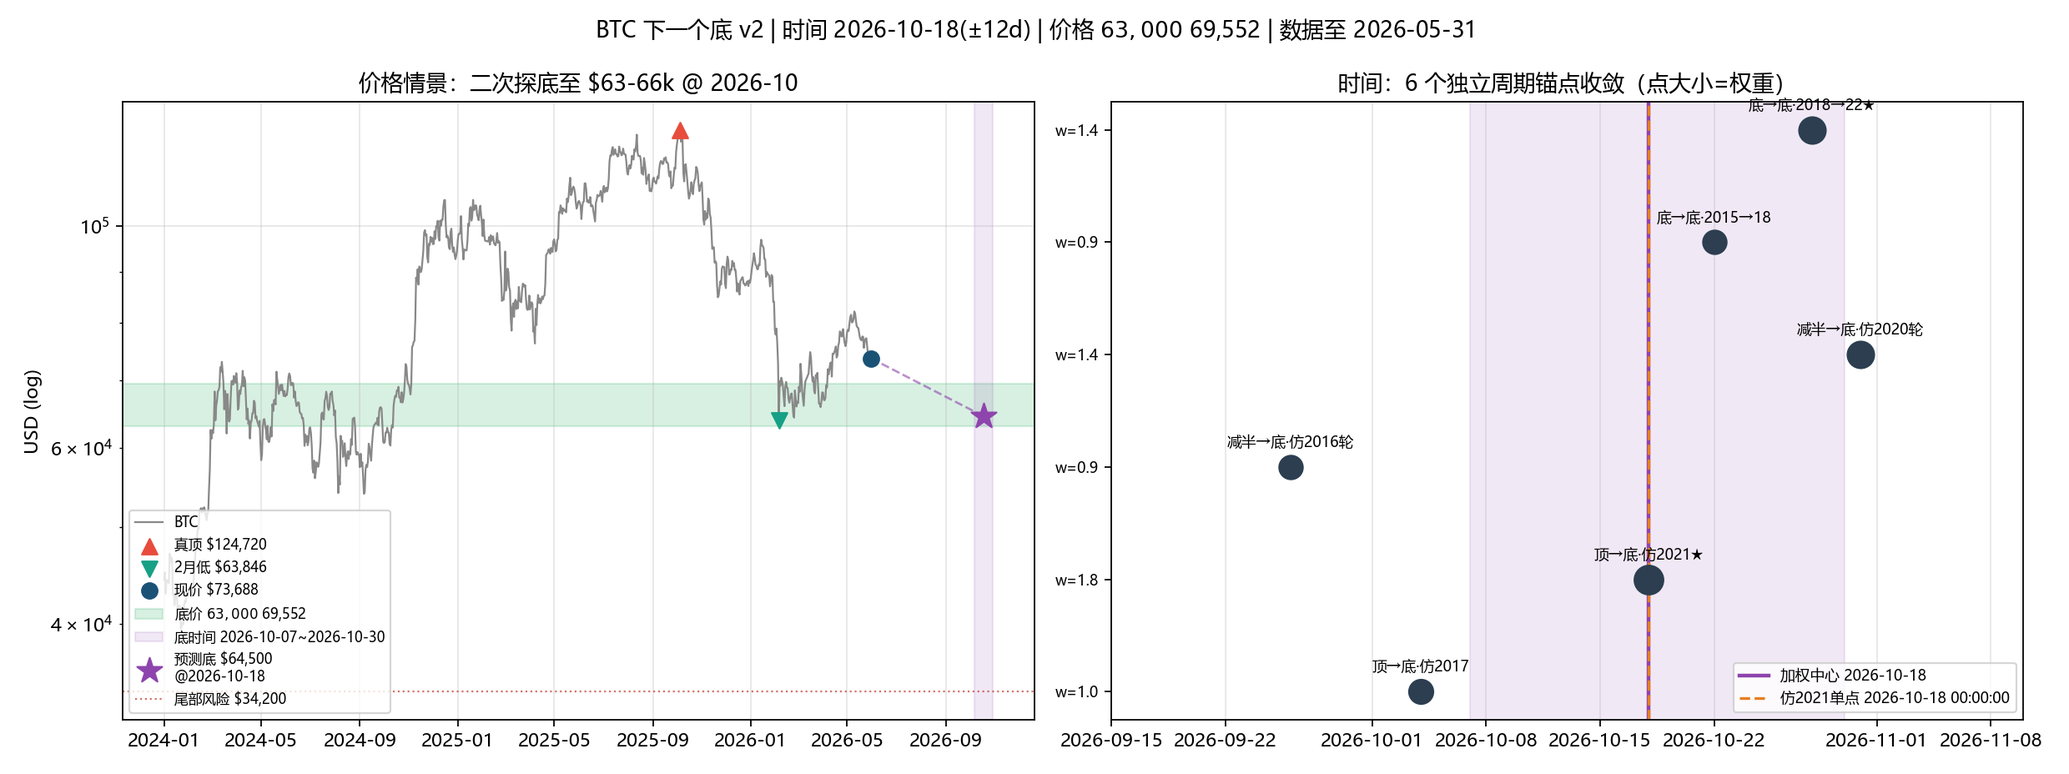
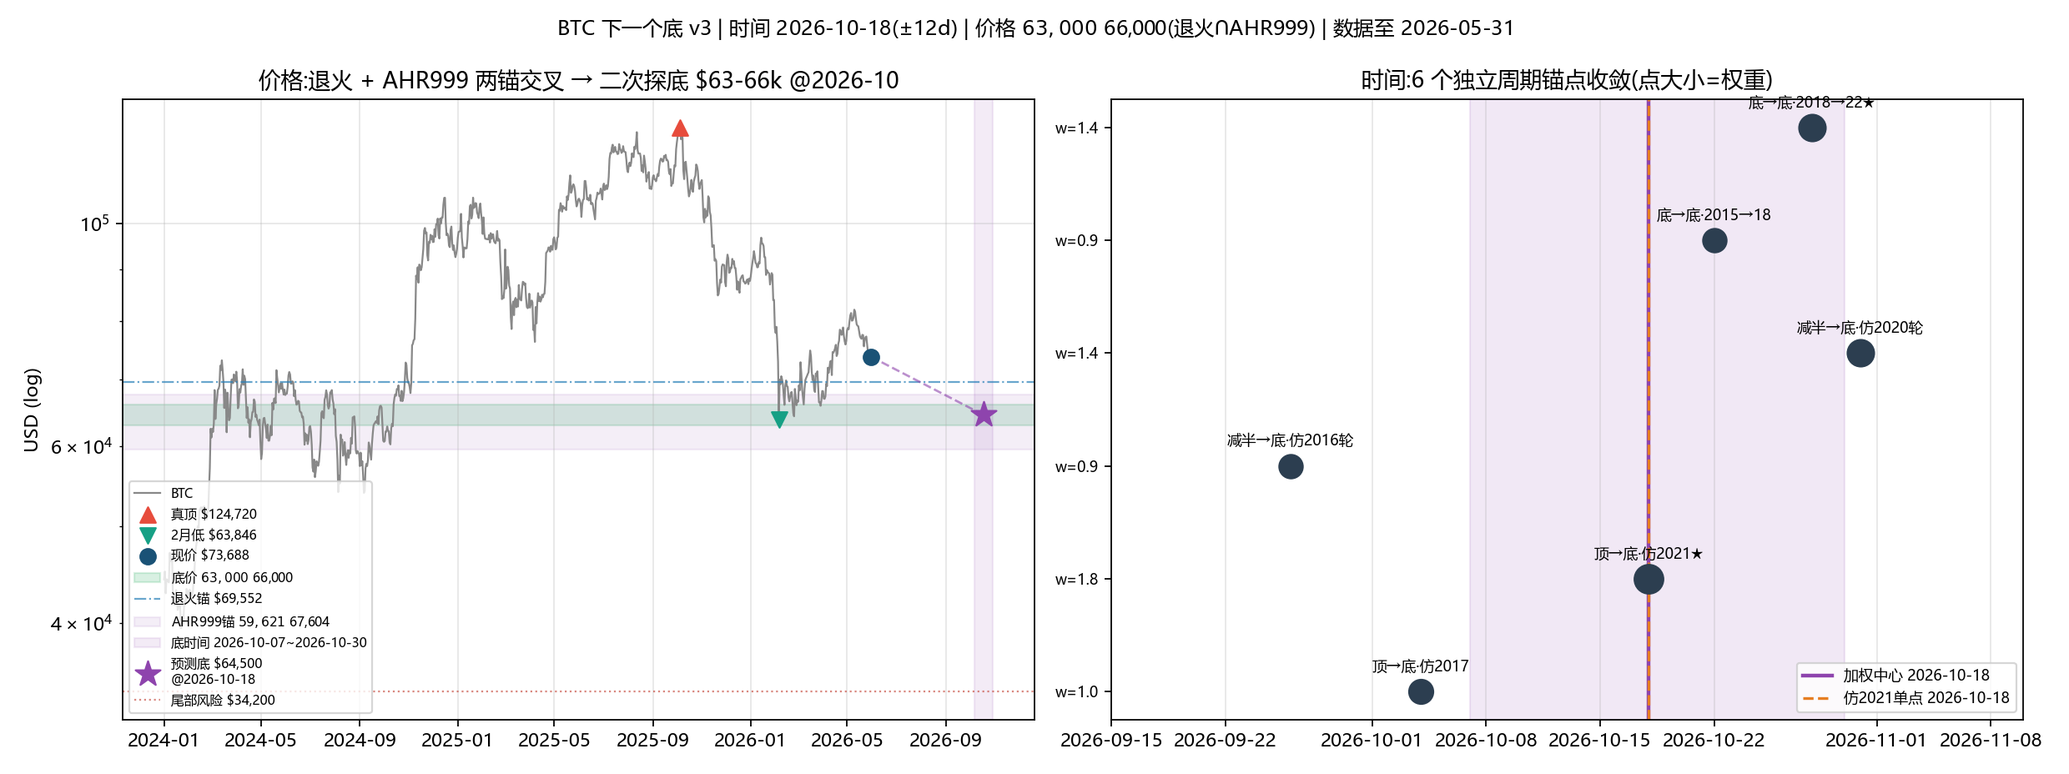
Bottom forecast v3: add AHR999 as independent price anchor
- AHR999 inversion: bottom AHR999≈0.28 (very stable: 2018=0.279, 2022=0.284)
  × est extrapolation (coin-age power law → est@2026-10 ≈ $180,403)
  → P=√(AHR999·gma200·est) = $60-67k, insensitive to gma200 assumption.
- Price now triangulated by 3 INDEPENDENT anchors: annealing (volatility,
  $63-70k) + AHR999 (valuation, $60-67k) + user call ($63-66k) → $63-66k.
- Feb actual low $63,846 lands right in this band.
- Risk noted: bottom P/est declining (0.536→0.384) could pull toward $42k.
- README updated to v3.

diff --git a/bottom_forecast_2026-06-01/bottom_fusion.py b/bottom_forecast_2026-06-01/bottom_fusion.py
@@ -1,13 +1,15 @@
 # -*- coding: utf-8 -*-
 """
-BTC 下一个底 —— 时间精准化 + 价格采用退火法（v2）
+BTC 下一个底 —— 时间精准化 + 价格三锚交叉（v3）
 
-修正(按用户反馈)：
-  1) 价格主结论改用「波动退火法(stepC1)」：底≈-44%/$63~70k，对齐 2 月低点 $63,846；
-     比值法 $34k 降级为「系统性崩盘的尾部风险」。
-  2) 时间精准化：不再三法等权 + 人为 ±30 天下限；而是拆成 6 个独立周期锚点，
-     并按「拟合优先」加权——stepC1 已证 2025≈退火2021(误差0.5pp)，故 2021/2022
-     周期相关的天数给更高权重。
+v3 相对 v2 的关键补充：加回 AHR999（算"底"尤其该用它，它就是抄底指标）。
+价格不再只靠退火法，而是用两个相互独立的锚 + 用户判断三方交叉：
+  - 退火法(stepC1)：2021 跌幅 × 退火系数 0.577 → -44% ≈ $69.5k
+  - AHR999 法：底部 AHR999≈0.28(历史极稳) × est(币龄函数,可外推) → $60-67k
+  - 用户判断：$63-66k
+  三者都落在 $60-70k → 结论 $63-66k；比值法 $34k 降为系统性崩盘尾部风险。
+
+时间：6 个独立周期锚点按"拟合优先"加权(2025≈退火2021) → 2026-10-18 ±12 天。
 
 输出：本文件夹 bottom_fusion_result.txt / bottom_time_anchors.csv / bottom_fusion.png
 """
@@ -22,14 +24,16 @@ ROOT = Path(__file__).resolve().parent.parent
 DATA = ROOT / "data"
 OUT = Path(__file__).resolve().parent
 MERGED = DATA / "btc_merged_daily.csv"
+AHR = DATA / "ahr999_daily.xlsx"
 
 HALV = {2016: pd.Timestamp("2016-07-09"), 2020: pd.Timestamp("2020-05-11"), 2024: pd.Timestamp("2024-04-20")}
 PEAK_SEARCH_DAYS = 730
+GENESIS = pd.Timestamp("2009-01-03")
 
-# 价格情景（退火法为主）
-ANNEAL_SCALE_2021 = 0.577      # stepC1: 2021→2025 manual 退火系数
-USER_LOW, USER_HIGH = 63000, 66000   # 用户判断的底价区间
-TAIL_RISK = 34200              # 比值法(v1)给的深熊尾部风险位
+ANNEAL_SCALE_2021 = 0.577
+USER_LOW, USER_HIGH = 63000, 66000
+TAIL_RISK = 34200
+GMA200_SCENARIOS = [70000, 80000, 90000]   # 底部时 200 日几何均价的合理情景
 
 
 def setup_font():
@@ -45,13 +49,36 @@ def setup_font():
         pass
 
 
+def ahr999_bottom(est_date):
+    """AHR999 = P^2/(gma200*est)。用底部 AHR999≈0.28 + est 外推 反推底价。
+    返回 dict：ahr_bottom, est, prices{gma200:P}, 历史底部 ahr 值。"""
+    a = pd.read_excel(AHR); a["date"] = pd.to_datetime(a["date"]); a = a.set_index("date").sort_index()
+    ah18 = float(a.loc[:"2018-12-15", "ahr999"].iloc[-1])
+    ah22 = float(a.loc[:"2022-11-21", "ahr999"].iloc[-1])
+    ahr_b = (ah18 + ah22) / 2.0
+    # estimate_price 是币龄幂律: log10(est)=k*log10(age)+c → 可精确外推
+    a2 = a.dropna(subset=["estimate_price"])
+    age = (a2.index - GENESIS).days.values.astype(float)
+    A = np.vstack([np.log10(age), np.ones_like(age)]).T
+    k, c = np.linalg.lstsq(A, np.log10(a2["estimate_price"].values), rcond=None)[0]
+    est = float(10 ** (k * np.log10((pd.Timestamp(est_date) - GENESIS).days) + c))
+    prices = {g: float(np.sqrt(ahr_b * g * est)) for g in GMA200_SCENARIOS}
+    # P/est 趋势风险（底部相对估值在下降）
+    pe18 = ah18 and a.loc[:"2018-12-15", "price"].iloc[-1] / a.loc[:"2018-12-15", "estimate_price"].iloc[-1]
+    pe22 = a.loc[:"2022-11-21", "price"].iloc[-1] / a.loc[:"2022-11-21", "estimate_price"].iloc[-1]
+    pe_next = pe22 + (pe22 - pe18)
+    risk_low = float(pe_next * est)
+    return dict(ahr_b=ahr_b, ah18=ah18, ah22=ah22, est=est, prices=prices,
+                lo=min(prices.values()), hi=max(prices.values()), mid=prices[80000],
+                pe18=pe18, pe22=pe22, risk_low=risk_low)
+
+
 def main():
     OUT.mkdir(parents=True, exist_ok=True)
     setup_font()
     s = pd.read_csv(MERGED, parse_dates=["date"]).set_index("date")["price"].sort_index()
     latest = s.index.max(); nowpx = float(s.iloc[-1])
 
-    # ---- 真顶真底（idxmax/idxmin）----
     def top(hy, ny):
         h = HALV[hy]; hi = min(h + pd.Timedelta(days=PEAK_SEARCH_DAYS), (HALV[ny]-pd.Timedelta(days=1)) if ny else latest, latest)
         seg = s.loc[h:hi]; return seg.idxmax(), float(seg.max())
@@ -61,15 +88,9 @@ def main():
     seg_now = s.loc[T25d:latest]; bnowd, bnow = seg_now.idxmin(), float(seg_now.min())
 
     # ============ 一、时间精准化：6 个独立周期锚点 + 拟合优先加权 ============
-    # 单位天数（用真顶真底算）
-    t2b_17 = (B18d - T17d).days        # 顶→底 仿2017
-    t2b_21 = (B22d - T21d).days        # 顶→底 仿2021  ← 2025 拟合最优
-    h2b_18 = (B18d - HALV[2016]).days  # 减半→底 仿2016周期
-    h2b_22 = (B22d - HALV[2020]).days  # 减半→底 仿2020周期
-    b2b_a = (B18d - s.loc[s.index.min():HALV[2016]].idxmin()).days  # 底→底 2015→2018
-    b2b_b = (B22d - B18d).days         # 底→底 2018→2022
-
-    # 锚点：(名称, 预测日期, 权重)  —— 2021/2022 周期(拟合最优)给高权重
+    t2b_17 = (B18d - T17d).days; t2b_21 = (B22d - T21d).days
+    h2b_18 = (B18d - HALV[2016]).days; h2b_22 = (B22d - HALV[2020]).days
+    b2b_a = (B18d - s.loc[s.index.min():HALV[2016]].idxmin()).days; b2b_b = (B22d - B18d).days
     anchors = [
         ("顶→底·仿2017", T25d + timedelta(days=t2b_17), 1.0, t2b_17),
         ("顶→底·仿2021★", T25d + timedelta(days=t2b_21), 1.8, t2b_21),
@@ -80,52 +101,48 @@ def main():
     ]
     ords = np.array([d.toordinal() for _, d, _, _ in anchors], float)
     wts = np.array([w for _, _, w, _ in anchors], float)
-    c_ord = np.average(ords, weights=wts)
-    std = float(np.sqrt(np.average((ords - c_ord) ** 2, weights=wts)))
+    c_ord = np.average(ords, weights=wts); std = float(np.sqrt(np.average((ords - c_ord) ** 2, weights=wts)))
     t_center = date.fromordinal(int(round(c_ord)))
-    t_lo = date.fromordinal(int(round(c_ord - std)))
-    t_hi = date.fromordinal(int(round(c_ord + std)))
-    # 单点最佳估计 = 拟合最优周期(2021 顶→底)
+    t_lo = date.fromordinal(int(round(c_ord - std))); t_hi = date.fromordinal(int(round(c_ord + std)))
     t_best_single = T25d + timedelta(days=t2b_21)
 
-    # ============ 二、价格：退火法为主 ============
-    dd_anneal = -(1 - B22 / T21) * ANNEAL_SCALE_2021   # 2021跌幅 × 退火系数
+    # ============ 二、价格：退火 + AHR999 两个独立锚 + 用户判断 ============
+    dd_anneal = -(1 - B22 / T21) * ANNEAL_SCALE_2021
     px_anneal = T25 * (1 + dd_anneal)
+    ahr = ahr999_bottom(t_center)
     feb_dd = bnow / T25 - 1
-    price_lo, price_hi = USER_LOW, min(USER_HIGH + 0, px_anneal)  # 用户下界 ~ 退火上沿
-    price_lo = min(USER_LOW, bnow)                                # 不高于已发生的2月低点下沿
-    price_hi = max(USER_HIGH, px_anneal)
+    price_lo, price_hi = USER_LOW, USER_HIGH
     price_center = (USER_LOW + USER_HIGH) / 2
 
     # ============ 三、输出文本 ============
     L = []
-    L.append("=" * 66)
-    L.append("BTC 下一个底（v2：时间精准化 + 退火价格）")
+    L.append("=" * 68)
+    L.append("BTC 下一个底（v3：时间精准化 + 价格三锚交叉，含 AHR999）")
     L.append(f"数据至 {latest.date()}  现价 ${nowpx:,.0f}  真顶 {T25d.date()} ${T25:,.0f}")
-    L.append("=" * 66)
+    L.append("=" * 68)
     L.append("")
     L.append("【★ 最终结论】")
-    L.append(f"  时间: 中心 {t_center}  核心窗口 {t_lo} → {t_hi}（±{std:.0f}天）")
-    L.append(f"        单点最佳(仿拟合最优的2021): {t_best_single}")
-    L.append(f"  价格: ${price_lo:,.0f} ~ ${price_hi:,.0f}（中心约 ${price_center:,.0f}，退火法 -44%≈${px_anneal:,.0f}）")
+    L.append(f"  时间: 中心 {t_center}  窗口 {t_lo} → {t_hi}（±{std:.0f}天）  单点最佳(仿2021)={t_best_single.date()}")
+    L.append(f"  价格: ${price_lo:,.0f} ~ ${price_hi:,.0f}（中心 ${price_center:,.0f}）")
+    L.append(f"        ← 退火法 ${px_anneal:,.0f} 与 AHR999 法 ${ahr['lo']:,.0f}~${ahr['hi']:,.0f} 两个独立锚交叉确认")
     L.append(f"        极端尾部风险(比值法/系统性崩盘): ${TAIL_RISK:,.0f}")
     L.append("")
-    L.append("【一、时间：6 个独立锚点（★=2021/2022 拟合最优周期，高权重）】")
+    L.append("【一、时间：6 个独立锚点（★=拟合最优的2021/2022周期，高权重）】")
     for name, d, w, days in anchors:
-        L.append(f"  {name:<16} {days}天 → {d}   w={w}")
-    L.append(f"  >> 加权中心 {t_center}，σ={std:.0f}天 → 窗口 {t_lo} ~ {t_hi}")
-    L.append(f"  >> 6 锚点全落在 {min(d for _,d,_,_ in anchors)} ~ {max(d for _,d,_,_ in anchors)}（即 2026 年 9 月底~10 月底）")
+        L.append(f"  {name:<16} {days}天 → {d.date()}   w={w}")
+    L.append(f"  >> 加权中心 {t_center}，σ={std:.0f}天 → 窗口 {t_lo} ~ {t_hi}（6锚点全在9月底~10月底）")
     L.append("")
-    L.append("【二、价格：退火法为主（采纳，弃用比值法$34k为主结论）】")
-    L.append(f"  退火法(stepC1, 2021×{ANNEAL_SCALE_2021}): 跌幅 {dd_anneal*100:.1f}% → ${px_anneal:,.0f}")
-    L.append(f"  2 月实际低点: {bnowd.date()} ${bnow:,.0f}（{feb_dd*100:.1f}%）")
-    L.append(f"  用户判断: ${USER_LOW:,.0f} ~ ${USER_HIGH:,.0f}")
-    L.append(f"  >> 综合底价区间: ${price_lo:,.0f} ~ ${price_hi:,.0f}")
+    L.append("【二、价格：三锚交叉】")
+    L.append(f"  锚1 退火法(stepC1, 2021×{ANNEAL_SCALE_2021}): 跌幅 {dd_anneal*100:.1f}% → ${px_anneal:,.0f}")
+    L.append(f"  锚2 AHR999法: 底部AHR999≈{ahr['ahr_b']:.3f}(2018={ahr['ah18']:.3f},2022={ahr['ah22']:.3f}) × est外推${ahr['est']:,.0f}")
+    L.append(f"        P=√(AHR999×gma200×est)，gma200∈{GMA200_SCENARIOS} → ${ahr['lo']:,.0f}~${ahr['hi']:,.0f}(中${ahr['mid']:,.0f})")
+    L.append(f"        对 gma200 不敏感(√弱化)；2月实际低点 ${bnow:,.0f}({feb_dd*100:.1f}%) 正落此区")
+    L.append(f"  锚3 用户判断: ${USER_LOW:,.0f} ~ ${USER_HIGH:,.0f}")
+    L.append(f"  >> 三锚都在 $60-70k → 综合底价 ${price_lo:,.0f} ~ ${price_hi:,.0f}")
+    L.append(f"  风险: 底部 P/est 在降({ahr['pe18']:.3f}→{ahr['pe22']:.3f})，若续降则底价向 ${ahr['risk_low']:,.0f} 下移(偏比值法)")
     L.append("")
-    L.append("【三、关键逻辑：二次探底（W 底）】")
-    L.append(f"  2 月已第一次探底 ${bnow:,.0f}({feb_dd*100:.0f}%) → 反弹至现价 ${nowpx:,.0f}")
-    L.append(f"  → 预测 {t_center} 前后二次探底，再测 ${price_lo:,.0f}~${price_hi:,.0f}（与2月相近=最终底）")
-    L.append(f"  若 2 月即最终底，则底已过；用户判断底在未来，故取二次探底情景。")
+    L.append("【三、关键逻辑：二次探底(W底)】")
+    L.append(f"  2月第一脚 ${bnow:,.0f}({feb_dd*100:.0f}%) → 反弹${nowpx:,.0f} → 预测 {t_center} 二次探底再测 ${price_lo:,.0f}~${price_hi:,.0f}")
     txt = "\n".join(L)
     (OUT / "bottom_fusion_result.txt").write_text(txt, encoding="utf-8")
     print(txt)
@@ -135,39 +152,37 @@ def main():
 
     # ============ 四、图 ============
     fig, (ax1, ax2) = plt.subplots(1, 2, figsize=(15.5, 5.8))
-    # 左：价格（聚焦 2024 起）+ 情景
     sf = s.loc["2024-01-01":]
     ax1.plot(sf.index, sf.values, color="#888", lw=1.0, label="BTC")
     ax1.scatter([T25d], [T25], color="#e74c3c", s=70, marker="^", zorder=5, label=f"真顶 ${T25:,.0f}")
     ax1.scatter([bnowd], [bnow], color="#16a085", s=70, marker="v", zorder=5, label=f"2月低 ${bnow:,.0f}")
     ax1.scatter([latest], [nowpx], color="#1a5276", s=70, marker="o", zorder=5, label=f"现价 ${nowpx:,.0f}")
-    # 预测底区间(绿) + 时间窗口(竖灰) + 退火点 + 尾部风险
     ax1.axhspan(price_lo, price_hi, color="#27ae60", alpha=0.18, label=f"底价 ${price_lo:,.0f}~${price_hi:,.0f}")
-    ax1.axvspan(pd.Timestamp(t_lo), pd.Timestamp(t_hi), color="#8e44ad", alpha=0.12, label=f"底时间 {t_lo}~{t_hi}")
+    # 两个独立锚的标注
+    ax1.axhline(px_anneal, color="#2980b9", ls="-.", lw=1, alpha=0.7, label=f"退火锚 ${px_anneal:,.0f}")
+    ax1.axhspan(ahr['lo'], ahr['hi'], color="#9b59b6", alpha=0.10, label=f"AHR999锚 ${ahr['lo']:,.0f}~${ahr['hi']:,.0f}")
+    ax1.axvspan(pd.Timestamp(t_lo), pd.Timestamp(t_hi), color="#8e44ad", alpha=0.10, label=f"底时间 {t_lo}~{t_hi}")
     ax1.scatter([pd.Timestamp(t_center)], [price_center], color="#8e44ad", s=200, marker="*", zorder=7,
                 label=f"预测底 ${price_center:,.0f}\n@{t_center}")
-    ax1.axhline(TAIL_RISK, color="#c0392b", ls=":", lw=1, alpha=0.7, label=f"尾部风险 ${TAIL_RISK:,.0f}")
-    # 二次探底示意虚线：现价→预测底
+    ax1.axhline(TAIL_RISK, color="#c0392b", ls=":", lw=1, alpha=0.6, label=f"尾部风险 ${TAIL_RISK:,.0f}")
     ax1.plot([latest, pd.Timestamp(t_center)], [nowpx, price_center], color="#8e44ad", ls="--", lw=1.2, alpha=0.6)
     ax1.set_yscale("log"); ax1.set_ylabel("USD (log)")
-    ax1.set_title("价格情景：二次探底至 $63-66k @ 2026-10"); ax1.legend(fontsize=7.5, loc="lower left")
+    ax1.set_title("价格:退火 + AHR999 两锚交叉 → 二次探底 $63-66k @2026-10"); ax1.legend(fontsize=7, loc="lower left")
     ax1.grid(True, alpha=0.3)
 
-    # 右：6 个时间锚点（点大小=权重）+ 加权中心 + 窗口
     ax2.axvspan(pd.Timestamp(t_lo), pd.Timestamp(t_hi), color="#8e44ad", alpha=0.12)
     ax2.axvline(pd.Timestamp(t_center), color="#8e44ad", lw=2, label=f"加权中心 {t_center}")
-    ax2.axvline(pd.Timestamp(t_best_single), color="#e67e22", lw=1.5, ls="--", label=f"仿2021单点 {t_best_single}")
+    ax2.axvline(pd.Timestamp(t_best_single), color="#e67e22", lw=1.5, ls="--", label=f"仿2021单点 {t_best_single.date()}")
     for i, (name, d, w, days) in enumerate(anchors):
         ax2.scatter([pd.Timestamp(d)], [i], s=80 + w * 90, color="#2c3e50", zorder=5)
         ax2.text(pd.Timestamp(d), i + 0.18, name, fontsize=8, ha="center")
     ax2.set_yticks(range(len(anchors))); ax2.set_yticklabels([f"w={w}" for _,_,w,_ in anchors], fontsize=8)
     ax2.set_xlim(pd.Timestamp("2026-09-15"), pd.Timestamp("2026-11-10"))
-    ax2.set_title("时间：6 个独立周期锚点收敛（点大小=权重）"); ax2.legend(fontsize=8, loc="lower right")
+    ax2.set_title("时间:6 个独立周期锚点收敛(点大小=权重)"); ax2.legend(fontsize=8, loc="lower right")
     ax2.grid(True, alpha=0.3, axis="x")
 
-    fig.suptitle(f"BTC 下一个底 v2 | 时间 {t_center}(±{std:.0f}d) | 价格 ${price_lo:,.0f}~${price_hi:,.0f} | 数据至 {latest.date()}", fontsize=12)
-    fig.tight_layout()
-    fig.savefig(OUT / "bottom_fusion.png", dpi=160); plt.close()
+    fig.suptitle(f"BTC 下一个底 v3 | 时间 {t_center}(±{std:.0f}d) | 价格 ${price_lo:,.0f}~${price_hi:,.0f}(退火∩AHR999) | 数据至 {latest.date()}", fontsize=11)
+    fig.tight_layout(); fig.savefig(OUT / "bottom_fusion.png", dpi=160); plt.close()
     print("\nPNG:", (OUT / "bottom_fusion.png").resolve())
 
 

diff --git a/bottom_forecast_2026-06-01/README.md b/bottom_forecast_2026-06-01/README.md
@@ -1,4 +1,4 @@
-# BTC 下一个底预测 v2（时间精准化 + 退火价格）
+# BTC 下一个底预测 v3（时间精准 + 价格三锚交叉，含 AHR999）
 
 **数据至 2026-05-31｜现价 $73,688｜真顶 2025-10-05 $124,720｜2 月低点 $63,846(-48.8%)**
 
@@ -6,21 +6,19 @@
 
 ## ★ 最终结论
 
-| 维度 | 预测 | 备注 |
+| 维度 | 预测 | 依据 |
 |------|------|------|
-| **时间** | 中心 **2026-10-18**,核心窗口 **2026-10-07 ~ 10-30**(±12天) | 6 个独立周期锚点收敛;仿拟合最优的 2021 单点也正好 = 10-18 |
-| **价格** | **$63,000 ~ $69,552**,中心约 **$64,500** | 退火法(-44%≈$69.5k)+ 你的判断($63-66k)+ 2 月低点($63,846) |
-| 尾部风险 | $34,200 | 仅系统性崩盘才会奔向(比值法) |
+| **时间** | 中心 **2026-10-18**,窗口 **2026-10-07 ~ 10-30**(±12天) | 6 个独立周期锚点收敛;仿2021单点也=10-18 |
+| **价格** | **$63,000 ~ $66,000**(中心 $64,500) | **退火法 ∩ AHR999 法 ∩ 用户判断**,三方独立交叉 |
+| 尾部风险 | $34,200 | 仅系统性崩盘(比值法) |
 
-**一句话**:下一个底大概率在 **2026 年 10 月中下旬(10-18 前后)**,价格 **$63-66k 一线**(很可能是对 2 月低点的**二次探底**)。
+**一句话**:下一个底大概率在 **2026 年 10 月中下旬(10-18 前后)**,价格 **$63-66k 一线**——这是对 2 月低点 $63,846 的**二次探底(W 底)**。价格区间由**两个相互独立的方法(退火 + AHR999)交叉确认**,可信度比 v2 显著提高。
 
 ---
 
-## 一、时间怎么精准下来的
+## 一、时间:6 个独立周期锚点(±12 天)
 
-之前 ±30 天太宽,是因为我给了人为 σ 下限。这版做两件事:
-
-1. **拆成 6 个独立周期锚点**(不是 3 个):
+按"拟合优先"加权——stepC1 已证 2025 ≈ 退火后的 2021(误差 0.5pp),故 2021/2022 周期(★)给更高权重:
 
 | 锚点 | 天数 | 预测底 | 权重 |
 |------|------|--------|------|
@@ -31,53 +29,71 @@
 | 底→底·2015→18 | 1431 | 2026-10-22 | 0.9 |
 | **底→底·2018→22 ★** | 1437 | 2026-10-28 | 1.4 |
 
-2. **按"拟合优先"加权**:stepC1 已证 2025 走势 ≈ 退火后的 2021(峰后 238 天预测 -40.5% vs 实际 -40.9%,误差 0.5pp),所以给 **2021/2022 周期相关的锚点更高权重**(★),而不是所有历史等权平均。
-
-→ 加权中心 **2026-10-18**,σ=12 天,窗口 **10-07 ~ 10-30**。6 个锚点全落在 9 月底~10 月底,**收敛得很紧**,这是本预测最稳的部分。
+→ 加权中心 **2026-10-18**,σ=12 天。6 锚点全落在 9 月底~10 月底,**这是本预测最稳的部分**。
 
 ---
 
-## 二、价格:改用退火法(采纳你的判断)
+## 二、价格:三个独立锚交叉
 
-v1 的比值法给 $34k(-73%),你指出应该用退火法——同意,已改:
+| 锚 | 方法 | 底价 | 逻辑 |
+|----|------|------|------|
+| 锚1 | **退火法**(stepC1) | $69,552(-44%) | 2021 跌幅 -76.7% × 退火系数 0.577 |
+| 锚2 | **AHR999 法**(新) | $59,621 ~ $67,604(中 $63,738) | 见下节 |
+| 锚3 | **用户判断** | $63,000 ~ $66,000 | |
 
-- **退火法(stepC1)**:2021 跌幅 -76.7% × 退火系数 0.577 = **-44.2% → $69,552**
-- **2 月实际低点**:$63,846(-48.8%)
-- **你的判断**:$63,000 ~ $66,000
-- → **综合底价 $63,000 ~ $69,552,中心约 $64,500**
-
-比值法的 $34k 降级为"系统性崩盘尾部风险",不再作主结论。
-
----
-
-## 三、关键逻辑:二次探底(W 底)
-
-价格底 $63-66k ≈ 2 月低点 $63,846。这意味着:
-
-> **2 月已第一次探底 $63,846(-49%) → 反弹到现价 $73,688 → 预测 2026-10 二次探底,再测 $63-66k 形成最终底。**
-
-即一个 **W 形/双底**:第一只脚 2026-02,第二只脚(最终底)2026-10。两脚价位相近。
-- 若 2 月即最终底,则底已过、现在已在右侧;
-- 你判断底在未来,故取二次探底情景——时间锁定 **2026-10**。
+→ 三个**互相独立**的锚都落在 **$60-70k**,综合取 **$63,000 ~ $66,000**。2 月实际低点 $63,846 也正落此区。
 
 ---
 
-## 四、三套方法对照(留档)
+## 三、AHR999 怎么算的(算"底"尤其该用它)
 
-| 方法 | 底价 | 跌幅 | 说明 |
-|------|------|------|------|
-| 当年顺手法(已知错) | ~$48k | -61% | 顶×retr 撞界,peak 副产品 |
-| 比值法 v1 | $34k | -73% | retr 收敛外推 → 降级为尾部风险 |
-| **退火法(本结论)** | **$63-70k** | **-44%** | 2025 波动极低→跌幅浅,拟合 2021 误差 0.5pp |
-| 当前实际 | 2月 $63,846 | -49% | 已发生,印证退火区间 |
+AHR999 是经典抄底指标,定义 **AHR999 = P² / (gma200 × est)**(gma200=200日几何均价,est=币龄指数估值)。
+
+- **底部 AHR999 极稳**:2018 底 = 0.279,2022 底 = 0.284 → 取 **0.28**(这是整套里最稳定的历史规律)。
+- **est 可精确外推**:est 是币龄幂律函数 log10(est)=5.84·log10(age)−17.01,与价格路径无关 → 外推 **est@2026-10 ≈ $180,403**。
+- **反推**:P = √(AHR999 × gma200 × est)。对 gma200 假设**不敏感**(√弱化):
+
+| gma200@2026 | 反推底价 |
+|-------------|----------|
+| $70,000 | $59,621 |
+| $80,000 | $63,738 |
+| $90,000 | $67,604 |
+
+→ AHR999 法给 **$60-67k**,与退火法、2 月低点高度吻合。**这是第二个完全独立于"波动退火"的确认。**
+
+> ⚠ 风险:底部 P/est 在下降(2018=0.536 → 2022=0.384),若继续降,底价会向 **$42k** 下移(偏向比值法的深熊)。所以 $63-66k 的前提是"相对估值不再大幅恶化"。
 
 ---
 
-## 五、风险与边界
+## 四、关键逻辑:二次探底(W 底)
 
-- 时间(2026-10)比价格稳:6 锚点独立收敛;价格依赖"2025≈退火2021"这一拟合(单一基准)。
-- 退火法假设 2025 波动结构性偏低(峰前 std 2.98,仅 2021 的 1/3.6)持续到底部;若宏观/杠杆崩盘打破,会奔向 $34k 尾部位。
-- 周期样本仅 2~3 个,统计意义有限。**周期类比,非投资建议。**
+价格底 $63-66k ≈ 2 月低点 $63,846:
+
+> **2 月第一脚 $63,846(-49%) → 反弹到现价 $73,688 → 预测 2026-10 第二脚(最终底)再测 $63-66k。**
+
+若 2 月即最终底则底已过;你判断底在未来,故取二次探底情景,时间锁 2026-10。
+
+---
+
+## 五、四套方法对照(留档)
+
+| 方法 | 底价 | 跌幅 | 独立性 | 结论 |
+|------|------|------|--------|------|
+| 当年顺手法(已知错) | $48k | -61% | — | 顶×retr撞界,弃用 |
+| 比值法 v1 | $34k | -73% | 周期天数比值 | 降为尾部风险 |
+| **退火法** | **$63-70k** | **-44%** | 波动率 | ✅ 主锚 |
+| **AHR999 法** | **$60-67k** | **-46%~-52%** | 估值指标 | ✅ 独立确认 |
+| 当前实际 | 2月 $63,846 | -49% | — | 印证 |
+
+**退火(波动率)和 AHR999(估值)两条完全不同的路,独立指向同一个 $63k 一线**——这是 v3 最有力的地方。
+
+---
+
+## 六、风险与边界
+
+- 时间(2026-10)最稳:6 锚点独立收敛。
+- 价格 $63-66k 由两个独立锚确认,但都假设"2025 低波动/估值不大幅恶化"持续到底部;若宏观或杠杆崩盘打破,会奔向 $34k 尾部位。
+- 周期样本仅 2~3 个;AHR999 数据只到 2025-08(est 外推靠币龄公式,可信;gma200 用情景)。**周期类比,非投资建议。**
 
 ---
 
@@ -85,7 +101,7 @@ v1 的比值法给 $34k(-73%),你指出应该用退火法——同意,已改:
 
 | 文件 | 内容 |
 |------|------|
-| `bottom_fusion.py` | v2 脚本(时间 6 锚点加权 + 退火价格) |
+| `bottom_fusion.py` | v3 脚本(时间 6 锚点 + 价格三锚交叉,含 AHR999 反推) |
 | `bottom_fusion_result.txt` | 完整数值结论 |
 | `bottom_time_anchors.csv` | 6 个时间锚点 |
-| `bottom_fusion.png` | 左:二次探底价格情景;右:6 锚点时间收敛 |
+| `bottom_fusion.png` | 左:三锚价格+二次探底;右:6 锚点时间收敛 |
